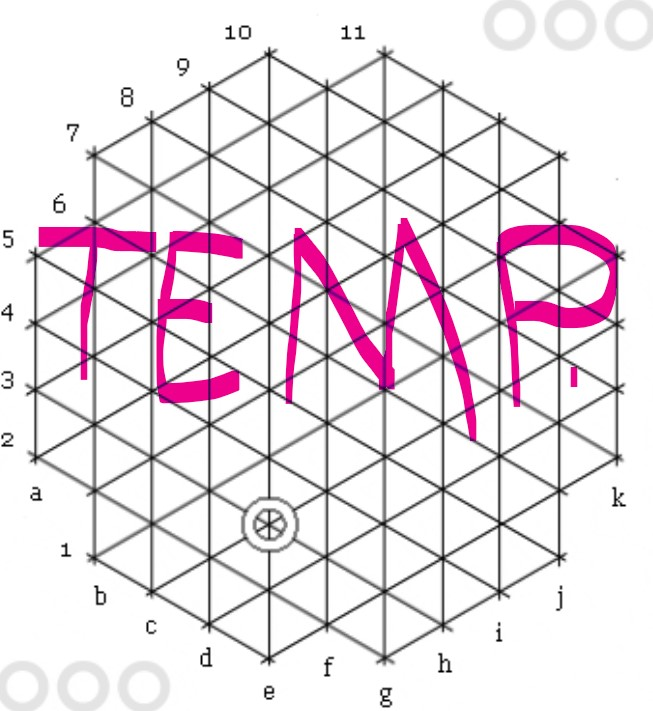
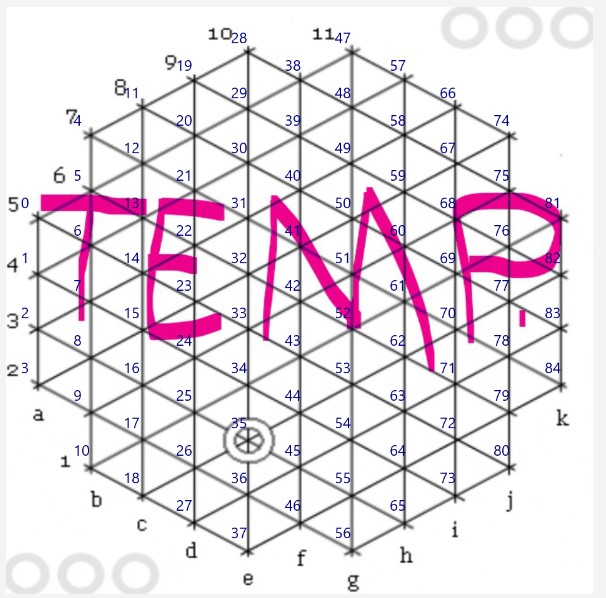
Added to reset() and affed vertex clicking functionality

diff --git a/ken2/src/main/java/com/ken2/ui/MainApp.java b/ken2/src/main/java/com/ken2/ui/MainApp.java
@@ -7,6 +7,7 @@ import javafx.scene.canvas.GraphicsContext;
 import javafx.scene.control.Button;
 import javafx.scene.control.ComboBox;
 import javafx.scene.image.Image;
+import javafx.scene.input.MouseEvent;
 import javafx.scene.layout.GridPane;
 import javafx.scene.paint.Color;
 import javafx.scene.shape.Circle;
@@ -29,6 +30,8 @@ public class MainApp extends Application {
     private Color inactiveScoreRingColor = Color.rgb(200, 200, 200);
     private Color activeScoreRingColor = Color.rgb(90, 150, 220);
     private int[][] vertexCoordinates = new int[85][2];
+    private ComboBox whitePlayerComboBox;
+    private ComboBox blackPlayerComboBox;
     
     @Override
     public void start(Stage primaryStage) {
@@ -52,17 +55,22 @@ public class MainApp extends Application {
         GraphicsContext gc = fieldPlaceHolder.getGraphicsContext2D();
 
         initialiseVertex();
-
         drawBoard(gc);
+
+        fieldPlaceHolder.setOnMouseClicked((MouseEvent e) -> {
+            double x = e.getX();
+            double y = e.getY();
+            findClosestVertex(x,y);
+        });
 
 
         // info elements
-        ComboBox whitePlayerComboBox = new ComboBox<>();
+        whitePlayerComboBox = new ComboBox<>();
         whitePlayerComboBox.getItems().add("Human Player");
         whitePlayerComboBox.getItems().add("AI Player");
         whitePlayerComboBox.getSelectionModel().selectFirst();
 
-        ComboBox blackPlayerComboBox = new ComboBox<>();
+        blackPlayerComboBox = new ComboBox<>();
         blackPlayerComboBox.getItems().add("Human Player");
         blackPlayerComboBox.getItems().add("AI Player");
         blackPlayerComboBox.getSelectionModel().selectFirst();
@@ -107,6 +115,24 @@ public class MainApp extends Application {
         primaryStage.show();
 
 
+    }
+
+    private void findClosestVertex(double x, double y){
+
+        System.out.println();
+
+        for(int i = 0 ; i < 85; i++){
+            double vX = vertexCoordinates[i][0] + 18;
+            double vY = vertexCoordinates[i][1] + 18;
+
+            double xDist = Math.abs(x - vX);
+            double yDist = Math.abs(y - vY);
+
+            if(xDist<=10 && yDist <=10){
+                System.out.println("Vertex Clicled: " + i);
+                break;
+            }
+        }
     }
 
     private void initialiseVertex() {
@@ -169,7 +195,7 @@ public class MainApp extends Application {
     }
 
     private void drawBoard(GraphicsContext gc) {
-        gc.drawImage(boardImage, 0, 0, fieldDimension, fieldDimension);
+        //gc.drawImage(boardImage, 0, 0, fieldDimension, fieldDimension);
 
         
         gc.setStroke(Color.NAVY);
@@ -284,6 +310,18 @@ public class MainApp extends Application {
         gc.drawImage(chipBImage, vertexCoordinates[43][0], vertexCoordinates[43][1], pieceDimension, pieceDimension);
         gc.drawImage(chipWImage, vertexCoordinates[41][0], vertexCoordinates[41][1], pieceDimension, pieceDimension);
 
+        //hit box
+        gc.setStroke(Color.RED);
+        gc.strokeLine(vertexCoordinates[40][0]+pieceDimension/2 - 10, vertexCoordinates[40][1]+pieceDimension/2 + 10, 
+        vertexCoordinates[40][0]+pieceDimension/2 + 10, vertexCoordinates[40][1]+pieceDimension/2 + 10);
+        gc.strokeLine(vertexCoordinates[40][0]+pieceDimension/2 - 10, vertexCoordinates[40][1]+pieceDimension/2 - 10, 
+        vertexCoordinates[40][0]+pieceDimension/2 + 10, vertexCoordinates[40][1]+pieceDimension/2 - 10);
+        gc.strokeLine(vertexCoordinates[40][0]+pieceDimension/2 + 10, vertexCoordinates[40][1]+pieceDimension/2 - 10, 
+        vertexCoordinates[40][0]+pieceDimension/2 + 10, vertexCoordinates[40][1]+pieceDimension/2 + 10);
+        gc.strokeLine(vertexCoordinates[40][0]+pieceDimension/2 - 10, vertexCoordinates[40][1]+pieceDimension/2 - 10, 
+        vertexCoordinates[40][0]+pieceDimension/2 - 10, vertexCoordinates[40][1]+pieceDimension/2 + 10);
+
+
     }
 
     private Circle makeScoreCircle() {
@@ -296,8 +334,10 @@ public class MainApp extends Application {
     }
 
     private void resetBoard() {
-        // this is where the combobox changes will take affect
-        // stub
+        System.out.println();
+        System.out.println(whitePlayerComboBox.getValue());
+        System.out.println(blackPlayerComboBox.getValue());
+        System.out.println("Reset!");
     }
 
     public static void main(String[] args) {
